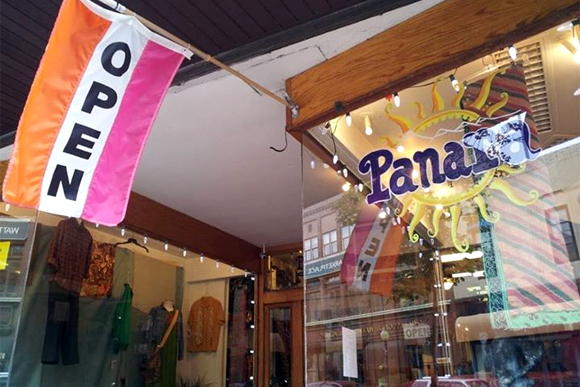
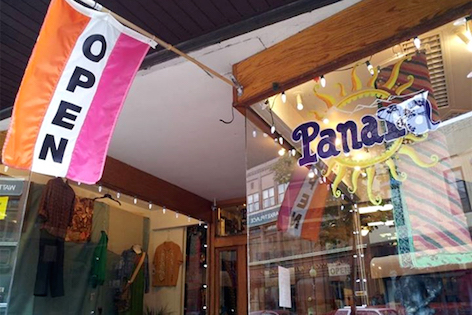
whole index page should be responsive.
I still need to figure out the small blank space on the right hand
side, but things should be working now.

diff --git a/index.html b/index.html
@@ -104,24 +104,10 @@
       </a>
     </div> <!-- Carousel -->
 
-	<div class="content_box">
+<div class="content_box">
         <!-- <div class="foot_step_1"></div> -->
-    <!-- <div class="img_story">  -->
-            <!-- This div with class img_story is affecting the responsivness of the p tags -->
-		      <div class="store_front">
-			     <img class="store_img img-responsive" src="./assets/images/panara_main.jpg">
-			     <p class="saying">IN THE END, WE ONLY <strong>REGRET,</strong> THE CHANCES WE DIDN'T <strong>TAKE!</strong></p>
-		      </div>
-    		    <div class="story">
-    			<p>Panara Imports opened in 1992 as Marquette's original hippie store with one of a kind clothing and gifts for mind - body - spirit.</p>
-    			<p>After being located in the mall for many years the store returned to its original location in downtown Marquette, where I bought it in 2012.</p>
-    			<p>A huge fan of the store for years, I am working to keep the vibe alive so that people who like the unique and the unusual will be able to visit for many years to come. The stores items have a story to tell, and visiting the store is an experience for the senses.</p>
-    			<p>Carrying on with the traditional Panara Fare I used the first two years to learn the ropes, to become acquainted with the vendors, and to put my stamp on the look and feel of the store. I conduct business with one goal in mind, offer Unique Fashions and fabulous finds while featuring Fair trade merchandise from around the world, eco-friendly and organic clothing and the work of local craftspeople.</p>
-    			<p>Panara Imports is a locally owned store that is committed to supporting local artists and established a consignment program as a way for them to showcase their work.</p>
-    			<p>In addition, I became very interested in the Principles of Fair Trade and to finding products that support families throughout the world by paying fair wages, and not employing children. Product lines that are committed to using sustainable materials, and to providing skills and education for women and children.</p>
-    			<p>I've made some small steps in my goal to develop a store that reflects my values. The outcome should be a store that not only provides high quality merchandise at reasonable prices, but one that also supports and educates about the power we all have to make choices that ultimately make a difference in someone's life.</p>
-		    </div>
-        <div class="store_info">
+<div class="row">
+    <div class="store_info">
             <p class="line_info">Call us anytime (906) 226-4604</p>
             <p class="line_info">Or swing by the shop!</p>
             <p class="line_info">125 W Washington St.<br>Marquette MI, 49855</p>
@@ -144,10 +130,20 @@
                         <td>12:00am - 4:00pm</td>
                     </tr>
             </table>
-            <a href="http://panaraimports.tumblr.com/"><img class="blog img-responsive" src="./assets/images/blog_photo1.jpg"></a>
+            <a href="http://panaraimports.tumblr.com/"><img class="blog" src="./assets/images/blog_photo1.jpg"></a>
         </div>
-    <!-- </div> -->
-    </div>
+        <img class="store_img img-responsive" src="./assets/images/panara_main.jpg">
+    	<div class="story">
+			<p>Panara Imports opened in 1992 as Marquette's original hippie store with one of a kind clothing and gifts for mind - body - spirit.</p>
+			<p>After being located in the mall for many years the store returned to its original location in downtown Marquette, where I bought it in 2012.</p>
+			<p>A huge fan of the store for years, I am working to keep the vibe alive so that people who like the unique and the unusual will be able to visit for many years to come. The stores items have a story to tell, and visiting the store is an experience for the senses.</p>
+			<p>Carrying on with the traditional Panara Fare I used the first two years to learn the ropes, to become acquainted with the vendors, and to put my stamp on the look and feel of the store. I conduct business with one goal in mind, offer Unique Fashions and fabulous finds while featuring Fair trade merchandise from around the world, eco-friendly and organic clothing and the work of local craftspeople.</p>
+			<p>Panara Imports is a locally owned store that is committed to supporting local artists and established a consignment program as a way for them to showcase their work.</p>
+			<p>In addition, I became very interested in the Principles of Fair Trade and to finding products that support families throughout the world by paying fair wages, and not employing children. Product lines that are committed to using sustainable materials, and to providing skills and education for women and children.</p>
+			<p>I've made some small steps in my goal to develop a store that reflects my values. The outcome should be a store that not only provides high quality merchandise at reasonable prices, but one that also supports and educates about the power we all have to make choices that ultimately make a difference in someone's life.</p>
+	    </div>
+</div>
+</div>
 
 	<div class="footer">
         <div>

diff --git a/stylesheet.css b/stylesheet.css
@@ -58,7 +58,7 @@ body{
 .blog{
     width: 290px;
     height: auto;
-    margin: 10px 0px 0px 0px;
+    margin: 10px 0px 0px 5px;
     border-radius: 5px;
 }
 .carousel{
@@ -306,24 +306,19 @@ body{
     display: inline;
     font-size: 18px;
     margin:10px;
-    width: 750px;
 }
 .say-hey{
     text-align: center;
     font-size: 50px;
     padding-top: 40px;
 }
-.store_front{
-    float: left;
-    padding: 0px 0px 0px 0px;
-    margin: 20px 20px 10px 10px;
-    width: 450px;
-}
 .store_img{
     border-radius: 5px;
-    border-width: 450px;
     border: solid 1px;
-    width: 456px;
+    width: auto;
+    height: auto;
+    margin: 20px 10px 10px 0px;
+    float: left;
 }
 .Store_Hours{
     border: solid #331919 5px;
@@ -337,7 +332,7 @@ body{
     width: 300px;
     height: auto;
     float: left;
-    margin: 20px;
+    margin: 20px 10px 10px 40px;
     padding-top: 10px;
     padding-bottom: 5px;
     border-radius: 5px;
